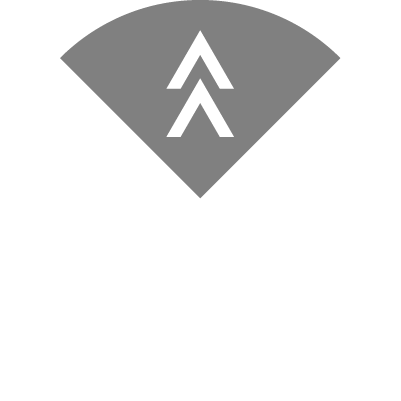
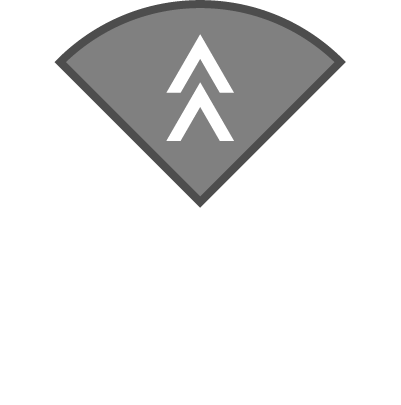
impl

Changed region(s): [[0.1197, 0.0, 0.8678, 0.5087], [0.419, 0.0599, 0.5985, 0.3591]]

diff --git a/src/main/java/DrawLogic/GameWindow.java b/src/main/java/DrawLogic/GameWindow.java
@@ -203,21 +203,24 @@ public class GameWindow extends JFrame {
     }
 
     private void drawGameField(Graphics graphics) {
+       int shadowOffsetx = 0;
+       int shadowOffsety = 10;
         Map<Position, Upgrades> upgrades = Game.currentlevel.upgrades;
         for (int y = 0; y < rows; y++) {
             for (int x = 0; x < cols; x++) {
                 graphics.drawImage(tiles.get(new Position(x,y)).getImage(),x*tileSize,y*tileSize,tileSize,tileSize,null); //draw Tile
                 if(upgrades.get(new Position(x,y)) == null) continue;
-                graphics.drawImage(MapUpgrade.getImage(upgrades.get(new Position(x,y))),x*tileSize,y*tileSize,tileSize,tileSize,null);//draw Upgrade
+                graphics.drawImage(MapUpgrade.getImage(),x*tileSize,y*tileSize,tileSize,tileSize,null); //draw Upgradeshadow
+                graphics.drawImage(MapUpgrade.getImage(upgrades.get(new Position(x,y))),x*tileSize-shadowOffsetx,y*tileSize-shadowOffsety,tileSize,tileSize,null);//draw Upgrade
             }
         }
 
         Position pos = this.player.getPlayerPosition();
         graphics.drawImage(player.getPlayerIMG(),pos.x*tileSize,pos.y*tileSize,tileSize,tileSize,null); //draw player
-        drawRotatedImage(graphics, this.player.getUpgradeIMG(player.getPlayerUpgrades().upUpgrade), pos.x * tileSize, pos.y * tileSize,tileSize , tileSize, 0); //Upgrade Up
-        drawRotatedImage(graphics, this.player.getUpgradeIMG(player.getPlayerUpgrades().rightUpgrade), pos.x * tileSize, pos.y * tileSize, tileSize, tileSize, Math.PI*0.5); //Upgrade Right
-        drawRotatedImage(graphics, this.player.getUpgradeIMG(player.getPlayerUpgrades().downUpgrade), pos.x * tileSize, pos.y * tileSize, tileSize, tileSize, Math.PI); //Upgrade Down
-        drawRotatedImage(graphics, this.player.getUpgradeIMG(player.getPlayerUpgrades().leftUpgrade), pos.x * tileSize, pos.y * tileSize, tileSize, tileSize, Math.PI*1.5); //Upgrade Left
+        drawRotatedImage(graphics, this.player.getUpgradeIMG(player.getPlayerUpgrades().upUpgrade), pos.x * tileSize-shadowOffsetx, pos.y * tileSize-shadowOffsety,tileSize , tileSize, 0); //Upgrade Up
+        drawRotatedImage(graphics, this.player.getUpgradeIMG(player.getPlayerUpgrades().rightUpgrade), pos.x * tileSize-shadowOffsetx, pos.y * tileSize-shadowOffsety, tileSize, tileSize, Math.PI*0.5); //Upgrade Right
+        drawRotatedImage(graphics, this.player.getUpgradeIMG(player.getPlayerUpgrades().downUpgrade), pos.x * tileSize-shadowOffsetx, pos.y * tileSize-shadowOffsety, tileSize, tileSize, Math.PI); //Upgrade Down
+        drawRotatedImage(graphics, this.player.getUpgradeIMG(player.getPlayerUpgrades().leftUpgrade), pos.x * tileSize-shadowOffsetx, pos.y * tileSize-shadowOffsety, tileSize, tileSize, Math.PI*1.5); //Upgrade Left
 
     }
 
